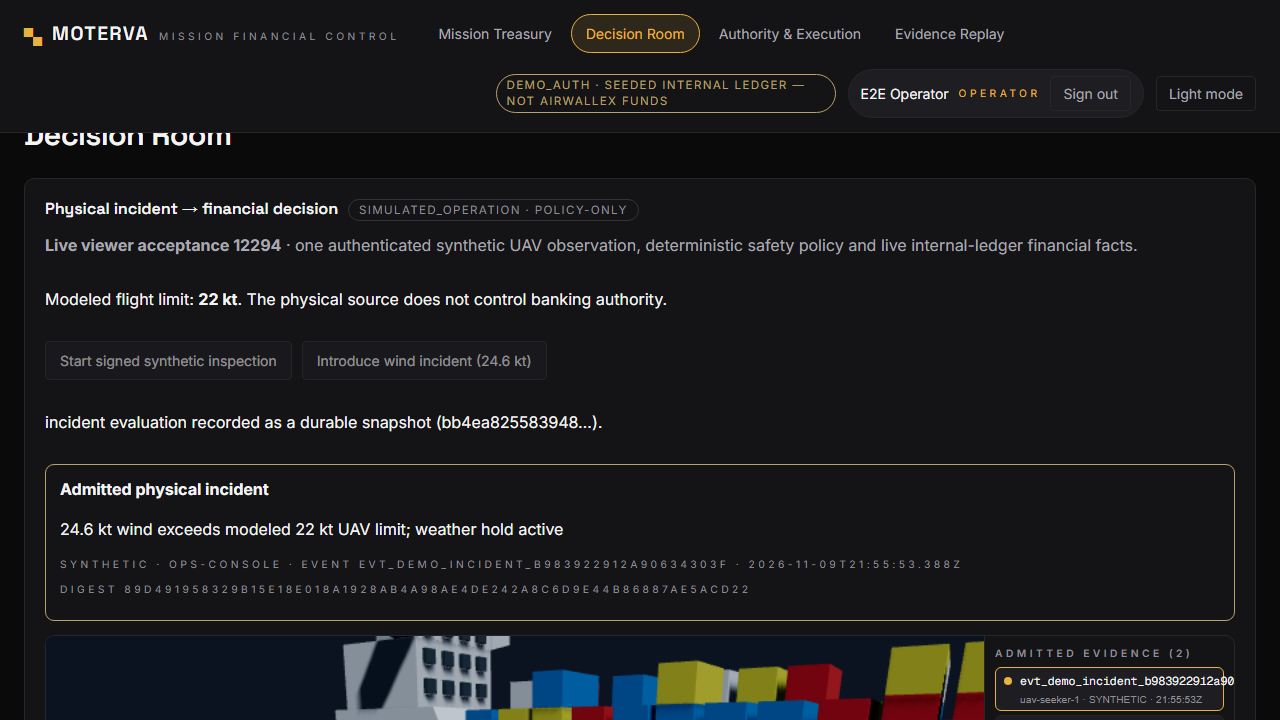
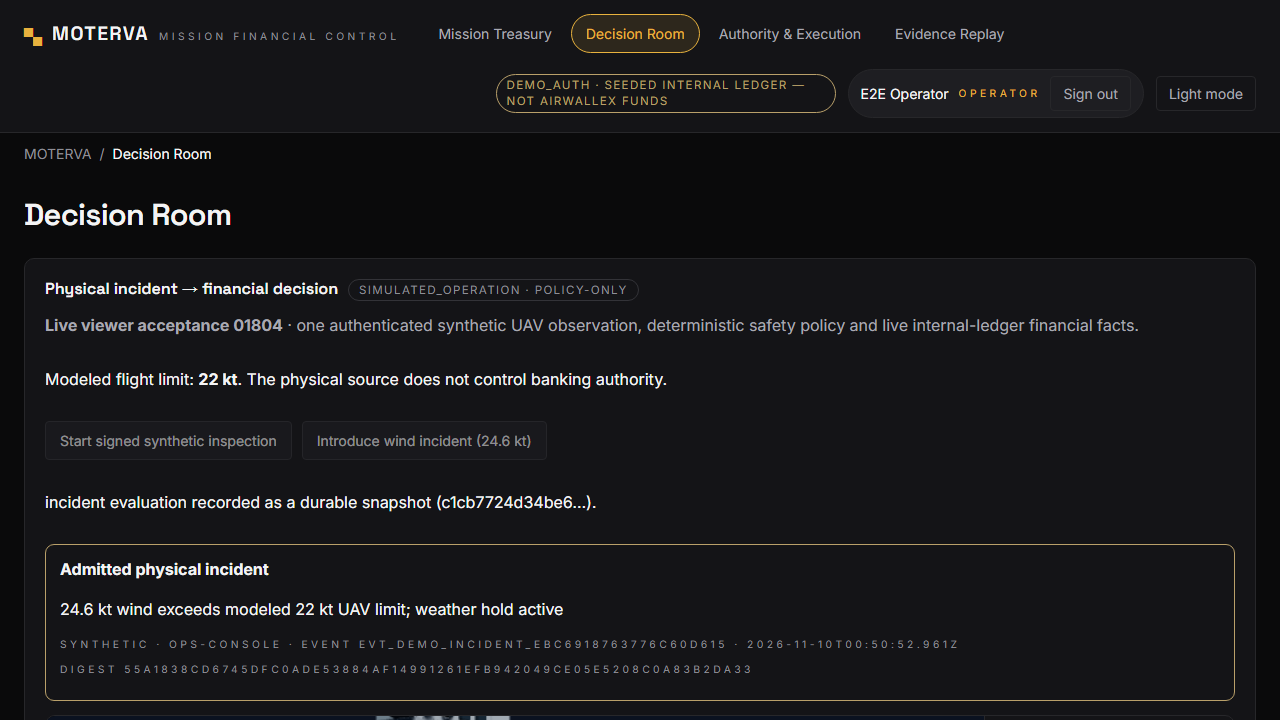
feat(mtv-14): 409 UAV_POLICY_UNRESOLVABLE maps to the honest S0-initial scene (known asset catalog, zero readings) + integrated diag ordering

diff --git a/apps/web/src/mission-viewer/PhysicalMissionViewport.tsx b/apps/web/src/mission-viewer/PhysicalMissionViewport.tsx
@@ -13,13 +13,21 @@
  *                  the reason is displayed verbatim; NO fixture is ever
  *                  substituted for live data.
  *
+ * S0 semantics: Agent A's accepted endpoint FAILS CLOSED (HTTP 409
+ * `UAV_POLICY_UNRESOLVABLE`) when the mission has no admitted evidence yet —
+ * the honest contract refuses to emit a half-trusted payload. The client
+ * maps that code to the viewer's S0-initial state: harbor scene, the known
+ * mission asset catalog, ZERO readings, explicitly unknown. No evidence is
+ * invented; the policy constants shown are the operator-defined modeled
+ * limits already displayed in the Decision Room intro.
+ *
  * Selection: `incidentEventId` (from the host's journey) seeds the selected
  * evidence; user selection inside the viewer is local to this component and
  * never triggers backend mutations.
  */
 import { useEffect, useState } from 'react';
 import type { JSX } from 'react';
-import { fetchPhysicalView } from '../lib/api.js';
+import { ApiError, fetchPhysicalView } from '../lib/api.js';
 import { MissionViewerLoadingCard, MissionViewerUnavailableCard } from './availability-cards.js';
 import { MissionPhysicalViewerLazy } from './lazy.js';
 import { snapshotFromServerPayload, PhysicalViewShapeError } from './adapter.js';
@@ -29,6 +37,29 @@ type ViewportState =
   | { readonly kind: 'loading' }
   | { readonly kind: 'ready'; readonly snapshot: PhysicalViewSnapshot }
   | { readonly kind: 'unavailable'; readonly reason: string };
+
+/**
+ * S0-initial snapshot: the KNOWN mission asset with ZERO readings — the
+ * honest "no admitted evidence yet" state. Rendered only for the endpoint's
+ * fail-closed UAV_POLICY_UNRESOLVABLE 409; never for parse or network
+ * failures (those render the unavailable card).
+ */
+function s0InitialSnapshot(missionId: string): PhysicalViewSnapshot {
+  return {
+    contractVersion: 1,
+    tenant: { orgId: '', missionId },
+    asOf: new Date().toISOString(),
+    truthLabel: 'SIMULATED_OPERATION — POLICY-ONLY',
+    policy: {
+      maxAgeMs: 15 * 60_000,
+      expiredMs: 30 * 60_000,
+      uavAssetId: 'uav-seeker-1',
+      uavWindLimitKt: 22,
+    },
+    assets: [{ assetId: 'uav-seeker-1', kind: 'aerial', label: 'Inspection UAV' }],
+    events: [],
+  };
+}
 
 export function PhysicalMissionViewport(props: {
   missionId: string;
@@ -67,10 +98,19 @@ export function PhysicalMissionViewport(props: {
       })
       .catch((reason: unknown) => {
         if (controller.signal.aborted) return;
+        if (reason instanceof ApiError && reason.code === 'UAV_POLICY_UNRESOLVABLE') {
+          // Fail-closed S0: no admitted evidence yet — the accepted endpoint
+          // refuses to emit a half-trusted payload. Render the honest initial
+          // scene (explicitly unknown), not an error.
+          setState({ kind: 'ready', snapshot: s0InitialSnapshot(missionId) });
+          return;
+        }
         const message =
-          reason instanceof Error && reason.message.startsWith('API responded')
-            ? `The physical-view read failed (${reason.message}).`
-            : 'The physical-view read is unavailable — showing no scene rather than an unverified one.';
+          reason instanceof ApiError && reason.code === 'ASSET_DOMAIN_UNAVAILABLE'
+            ? 'An admitted asset has no authoritative physical-domain metadata — the scene is withheld rather than fabricated.'
+            : reason instanceof Error && reason.message.startsWith('API responded')
+              ? `The physical-view read failed (${reason.message}).`
+              : 'The physical-view read is unavailable — showing no scene rather than an unverified one.';
         setState({ kind: 'unavailable', reason: message });
       });
     return () => controller.abort();

diff --git a/e2e/mission-viewer-integrated.spec.ts b/e2e/mission-viewer-integrated.spec.ts
@@ -90,12 +90,11 @@ test('LIVE: physical incident renders the restricted 3D scene inside the real De
 
   // ---- S0: live viewer before any evidence — honest initial state --------
   const viewer = page.locator('[data-testid="decision-room"] [data-testid="mission-viewer"]');
-  await expect(viewer).toHaveAttribute('data-availability', 'ready', { timeout: 30_000 });
-  if (await page.getByTestId('mpv-unavailable-reason').count()) {
-    throw new Error(
-      'UNAVAILABLE REASON: ' + (await page.getByTestId('mpv-unavailable-reason').innerText()),
-    );
+  await page.waitForTimeout(3000);
+  if ((await page.getByTestId('mpv-unavailable-reason').count()) > 0) {
+    throw new Error('UNAVAILABLE REASON: ' + (await page.getByTestId('mpv-unavailable-reason').innerText()));
   }
+  await expect(viewer).toHaveAttribute('data-availability', 'ready', { timeout: 30_000 });
   await expect(viewer).toHaveAttribute('data-phase', 'S0-initial');
   await expect(page.getByTestId('mpv-phase')).toContainText('unknown by design');
   // S0 never implies clearance.
